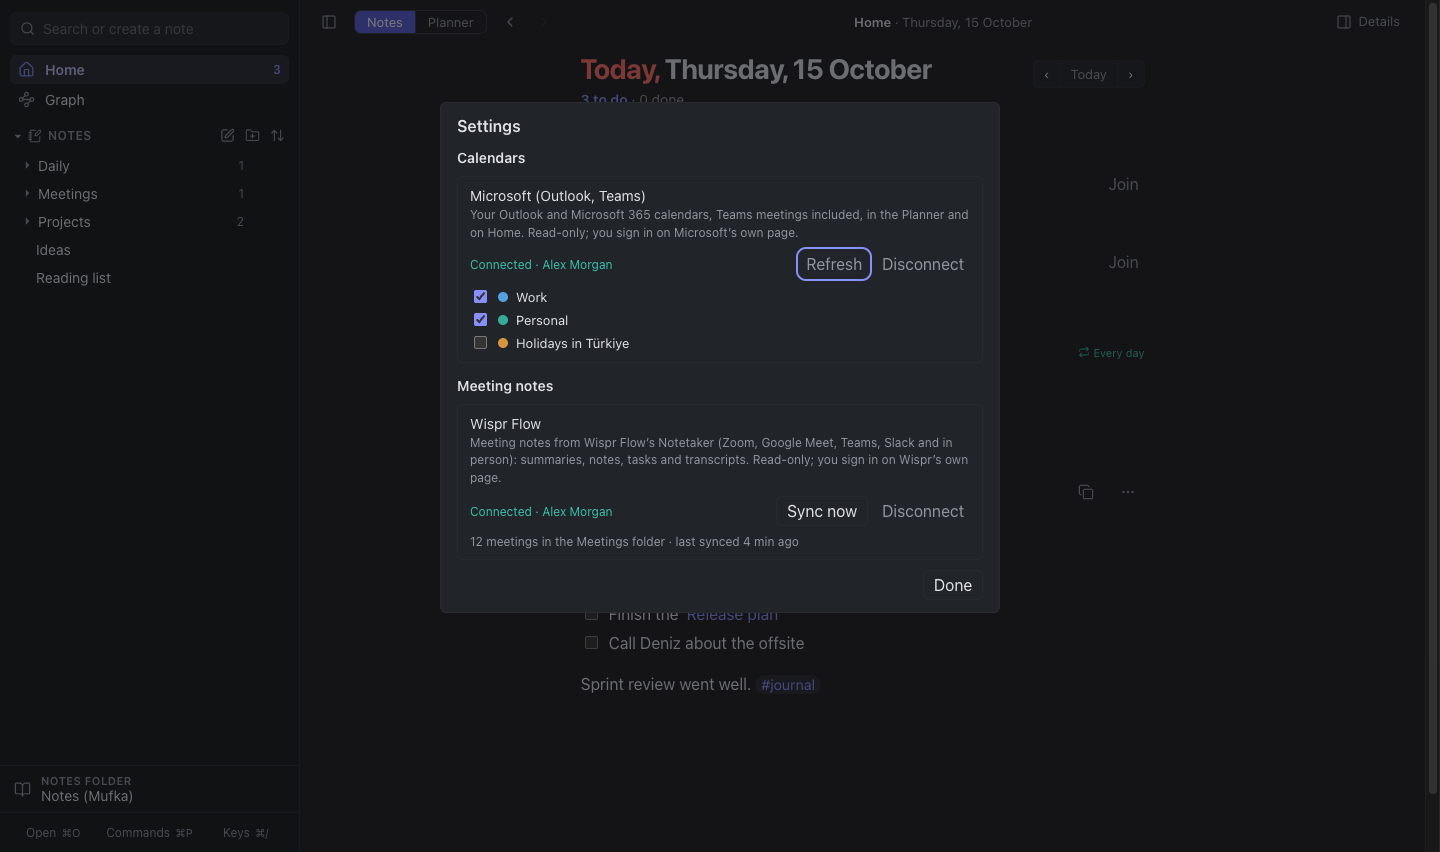
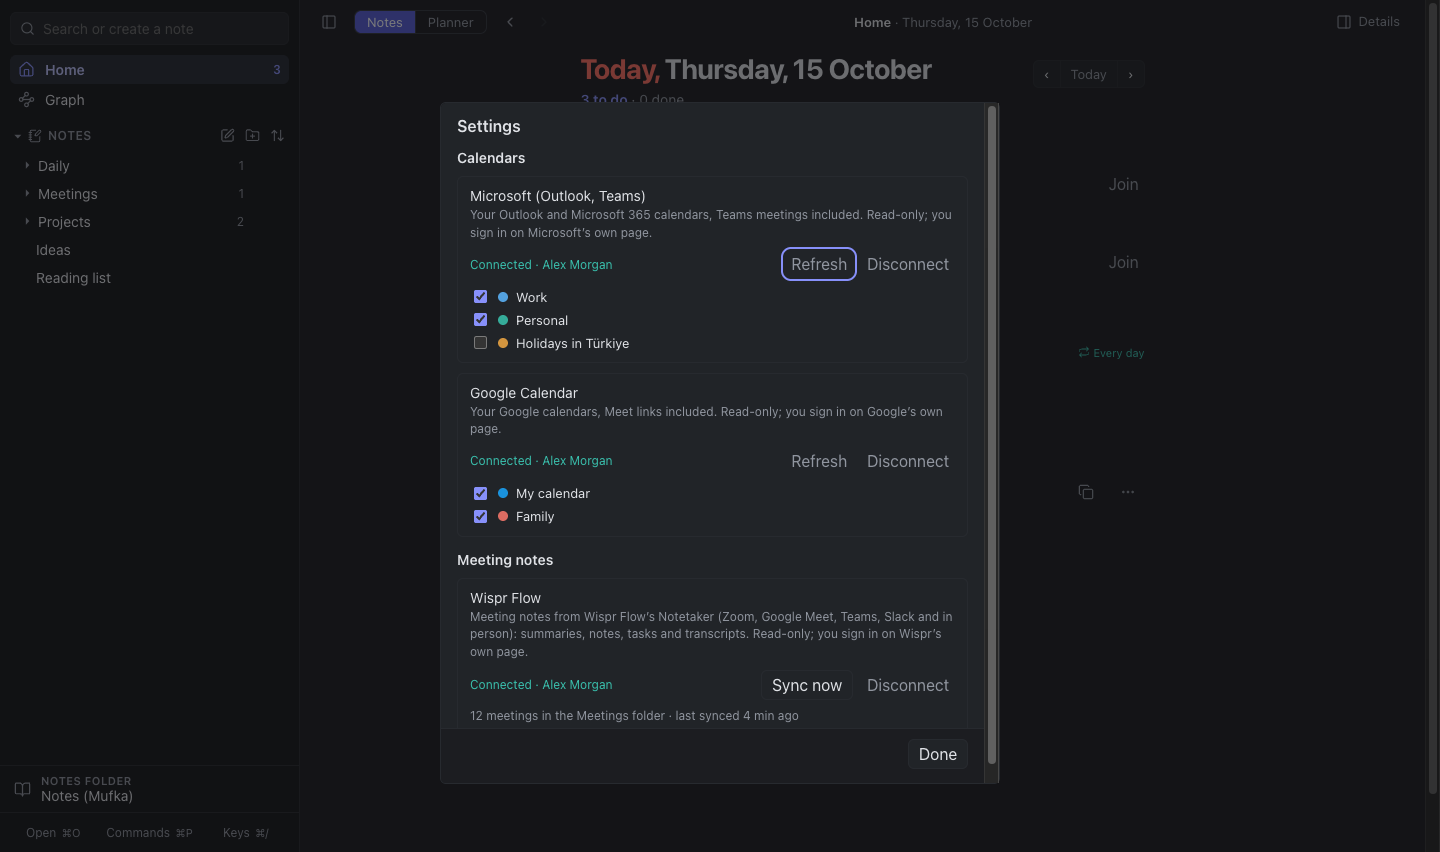
Settings scroll when the connections do not fit; README for Google and mufka.app
With two calendars and Wispr connected, Settings ran past the window and hid Done; it now scrolls with Done kept at the bottom. The README links mufka.app and the privacy policy, describes Google Calendar, and explains the git-ignored Google client for builds.

Changed region(s): [[0.3125, 0.1221, 0.7188, 0.885], [0.3125, 0.7019, 0.6562, 0.8545], [0.375, 0.2441, 0.4062, 0.2746]]

diff --git a/src/styles.css b/src/styles.css
@@ -907,7 +907,9 @@ input[type="checkbox"], input[type="range"] { accent-color: var(--accent); }
 .tree-guide:not(.on-path) { opacity: 0.55; }
 
 /* --- settings --- */
-.settings-dialog { width: min(560px, calc(100vw - 32px)); }
+.settings-dialog { width: min(560px, calc(100vw - 32px)); max-height: 80vh; overflow-y: auto; }
+/* More connections than fit: the dialog scrolls, Done stays in reach. */
+.settings-dialog > .plan-dialog-actions { position: sticky; bottom: -14px; margin: 0 -16px -14px; padding: 10px 16px 14px; background: var(--ground); border-top: 1px solid var(--line); }
 .settings-section { display: flex; flex-direction: column; gap: 10px; }
 .settings-heading { margin: 4px 0 0; font-size: 14px; font-weight: 600; }
 .conn-row { display: flex; flex-direction: column; gap: 10px; border: 1px solid var(--line); border-radius: var(--radius); padding: 10px 12px; }

diff --git a/README.md b/README.md
@@ -6,9 +6,11 @@
 
 **Your week and your notes, in one calm Mac app.**
 
-A week planner with times, repeating plans and your Outlook / Teams calendar,
-and an Obsidian‑like Markdown notes vault with links, backlinks and a graph —
-local and private.
+A week planner with times, repeating plans and your Outlook, Teams and Google
+calendars, and an Obsidian‑like Markdown notes vault with links, backlinks and
+a graph — local and private.
+
+**[mufka.app](https://mufka.app)** · [Download](https://github.com/batuhan-bas/mufka/releases/latest) · [Privacy](https://mufka.app/privacy)
 
 ![The Planner: the week with to-dos on top, an hour grid below and calendar meetings in their colour](docs/screenshots/planner.png)
 
@@ -39,11 +41,12 @@ Mufka has two modes, switched at the top left (**Notes | Planner**, or ⌃Tab).
   "this happens every Tuesday" is visible at a glance.
 - **Missed** plans — not done after their time — get a coral edge and a
   one-click **→ Today**. Nothing moves on its own.
-- **Your calendar in the week:** connect **Microsoft (Outlook, Teams)** in
-  **Settings** (⌘,) and your meetings appear next to your plans, in each
-  calendar's colour; all-day events sit on top. Click one for when, where and
-  who, and **Join meeting** for Teams, Zoom or Meet links. Read-only: Mufka
-  never changes your calendar. Choose which calendars to show; ↻ refreshes.
+- **Your calendars in the week:** connect **Microsoft (Outlook, Teams)** and
+  **Google Calendar** in **Settings** (⌘,) and your meetings appear next to
+  your plans, in each calendar's colour; all-day events sit on top. Click one
+  for when, where and who, and **Join meeting** for Teams, Meet or Zoom links.
+  Read-only: Mufka never changes your calendars. Choose which calendars to
+  show; ↻ refreshes.
 - Move plans by **dragging** (to another day or time; drag the bottom edge to
   change the end), with the ⋯ menu, or with the keyboard (⌥←/→ a day, ⌥↑/↓ 15
   minutes). Every change can be undone with ⌘Z.
@@ -124,13 +127,13 @@ you delete them.
 ## Your notes and your data
 
 Everything stays on your Mac; there is no account and no server. The exceptions
-are the connections you turn on yourself in **Settings**: your **Microsoft
-calendar** (Mufka reads your events; it asks only for calendar read access) and
-**Wispr Flow** (Mufka reads your meetings). Mufka never sends your notes or
-plans anywhere. Sign-ins are kept encrypted in your Keychain; **Disconnect**
-forgets them.
+are the connections you turn on yourself in **Settings**: your **Microsoft**
+and **Google** calendars (Mufka reads your events; it asks only for calendar
+read access) and **Wispr Flow** (Mufka reads your meetings). Mufka never sends
+your notes or plans anywhere. Sign-ins are kept encrypted in your Keychain;
+**Disconnect** forgets them. Details: the [privacy policy](https://mufka.app/privacy).
 
-<p align="center"><img src="docs/screenshots/settings.png" width="70%" alt="Settings: the Microsoft calendar and Wispr Flow connections"></p>
+<p align="center"><img src="docs/screenshots/settings.png" width="70%" alt="Settings: the Microsoft and Google calendars and Wispr Flow"></p>
 
 | What | Where |
 |---|---|
@@ -194,6 +197,18 @@ For a copy you share or upload to Releases, use **`npm run dist:public`**: it
 signs ad-hoc, so no certificate (and the name and email in it) ends up inside
 the app. macOS may then ask for notification permission again after each
 update.
+
+**Google Calendar** needs an OAuth client of type *Desktop app* (Google Cloud
+Console → Google Auth Platform → Clients). Its id and secret are not in this
+repository; put them in a git-ignored `.env.local` before building:
+
+```sh
+MAIN_VITE_GOOGLE_CLIENT_ID=….apps.googleusercontent.com
+MAIN_VITE_GOOGLE_CLIENT_SECRET=…
+```
+
+Without it, Settings shows Google as "not set up"; everything else works.
+Microsoft uses Mufka's public app registration (`lib/calendar.mjs`).
 
 Bump `version` in `package.json` before building a new copy, so people can
 tell versions apart.
